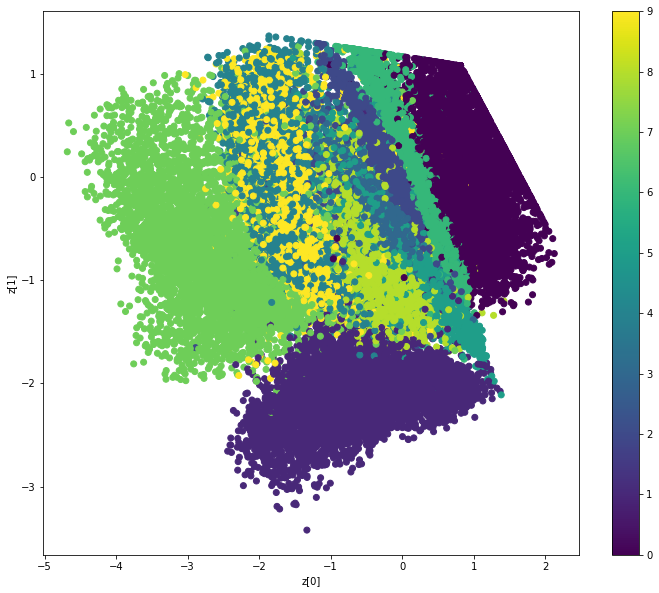
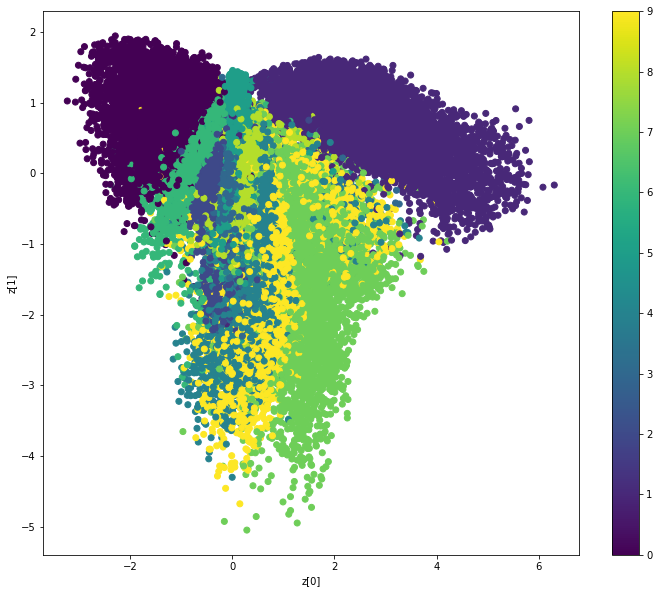
refresh vae example files

diff --git a/examples/generative/md/vae.md b/examples/generative/md/vae.md
@@ -14,6 +14,7 @@
 ## Setup
 
 
+
 ```python
 import numpy as np
 import tensorflow as tf
@@ -24,6 +25,7 @@ from tensorflow.keras import layers
 
 ---
 ## Create a sampling layer
+
 
 
 ```python
@@ -43,6 +45,7 @@ class Sampling(layers.Layer):
 
 ---
 ## Build the encoder
+
 
 
 ```python
@@ -95,6 +98,7 @@ ________________________________________________________________________________
 ## Build the decoder
 
 
+
 ```python
 latent_inputs = keras.Input(shape=(latent_dim,))
 x = layers.Dense(7 * 7 * 64, activation="relu")(latent_inputs)
@@ -136,6 +140,7 @@ _________________________________________________________________
 ## Define the VAE as a `Model` with a custom `train_step`
 
 
+
 ```python
 
 class VAE(keras.Model):
@@ -145,7 +150,8 @@ class VAE(keras.Model):
         self.decoder = decoder
 
     def train_step(self, data):
-        data = data[0]
+        if isinstance(data, tuple):
+            data = data[0]
         with tf.GradientTape() as tape:
             z_mean, z_log_var, z = encoder(data)
             reconstruction = decoder(z)
@@ -172,6 +178,7 @@ class VAE(keras.Model):
 ## Train the VAE
 
 
+
 ```python
 (x_train, _), (x_test, _) = keras.datasets.mnist.load_data()
 mnist_digits = np.concatenate([x_train, x_test], axis=0)
@@ -186,24 +193,73 @@ vae.fit(mnist_digits, epochs=30, batch_size=128)
 <div class="k-default-codeblock">
 ```
 Epoch 1/30
-547/547 [==============================] - 30s 56ms/step - loss: 208.8172 - reconstruction_loss: 206.4144 - kl_loss: 2.4027
+547/547 [==============================] - 3s 5ms/step - loss: 202.1639 - reconstruction_loss: 199.6418 - kl_loss: 2.5221
 Epoch 2/30
-547/547 [==============================] - 35s 65ms/step - loss: 173.0523 - reconstruction_loss: 169.3694 - kl_loss: 3.6828
+547/547 [==============================] - 2s 4ms/step - loss: 161.9867 - reconstruction_loss: 158.9957 - kl_loss: 2.9910
 Epoch 3/30
-547/547 [==============================] - 34s 62ms/step - loss: 163.5822 - reconstruction_loss: 159.9738 - kl_loss: 3.6083
+547/547 [==============================] - 2s 4ms/step - loss: 157.0864 - reconstruction_loss: 153.9148 - kl_loss: 3.1716
 Epoch 4/30
-547/547 [==============================] - 36s 66ms/step - loss: 159.5133 - reconstruction_loss: 155.7664 - kl_loss: 3.7469
+547/547 [==============================] - 2s 5ms/step - loss: 154.6892 - reconstruction_loss: 151.4092 - kl_loss: 3.2800
 Epoch 5/30
-547/547 [==============================] - 40s 73ms/step - loss: 149.8828 - reconstruction_loss: 146.0466 - kl_loss: 3.8362
+547/547 [==============================] - 2s 4ms/step - loss: 153.1740 - reconstruction_loss: 149.8300 - kl_loss: 3.3441
+Epoch 6/30
+547/547 [==============================] - 2s 5ms/step - loss: 152.0346 - reconstruction_loss: 148.6590 - kl_loss: 3.3756
+Epoch 7/30
+547/547 [==============================] - 2s 5ms/step - loss: 151.2110 - reconstruction_loss: 147.7929 - kl_loss: 3.4181
+Epoch 8/30
+547/547 [==============================] - 2s 5ms/step - loss: 150.5230 - reconstruction_loss: 147.0933 - kl_loss: 3.4297
+Epoch 9/30
+547/547 [==============================] - 2s 5ms/step - loss: 149.9584 - reconstruction_loss: 146.5069 - kl_loss: 3.4515
+Epoch 10/30
+547/547 [==============================] - 2s 5ms/step - loss: 149.4152 - reconstruction_loss: 145.9451 - kl_loss: 3.4701
+Epoch 11/30
+547/547 [==============================] - 2s 5ms/step - loss: 149.0085 - reconstruction_loss: 145.5200 - kl_loss: 3.4885
+Epoch 12/30
+547/547 [==============================] - 2s 5ms/step - loss: 148.6831 - reconstruction_loss: 145.1854 - kl_loss: 3.4977
+Epoch 13/30
+547/547 [==============================] - 2s 4ms/step - loss: 148.3130 - reconstruction_loss: 144.7828 - kl_loss: 3.5302
+Epoch 14/30
+547/547 [==============================] - 2s 5ms/step - loss: 148.0216 - reconstruction_loss: 144.4819 - kl_loss: 3.5397
 Epoch 15/30
-547/547 [==============================] - 39s 71ms/step - loss: 146.8578 - reconstruction_loss: 143.0724 - kl_loss: 3.7855
+547/547 [==============================] - 2s 5ms/step - loss: 147.7056 - reconstruction_loss: 144.1588 - kl_loss: 3.5468
+Epoch 16/30
+547/547 [==============================] - 2s 5ms/step - loss: 147.4493 - reconstruction_loss: 143.8943 - kl_loss: 3.5549
+Epoch 17/30
+547/547 [==============================] - 2s 5ms/step - loss: 147.1656 - reconstruction_loss: 143.5847 - kl_loss: 3.5809
+Epoch 18/30
+547/547 [==============================] - 2s 5ms/step - loss: 147.0080 - reconstruction_loss: 143.4251 - kl_loss: 3.5829
+Epoch 19/30
+547/547 [==============================] - 2s 5ms/step - loss: 146.8182 - reconstruction_loss: 143.2218 - kl_loss: 3.5964
+Epoch 20/30
+547/547 [==============================] - 2s 5ms/step - loss: 146.5972 - reconstruction_loss: 142.9844 - kl_loss: 3.6128
+Epoch 21/30
+547/547 [==============================] - 2s 5ms/step - loss: 146.3822 - reconstruction_loss: 142.7513 - kl_loss: 3.6309
+Epoch 22/30
+547/547 [==============================] - 2s 5ms/step - loss: 146.1550 - reconstruction_loss: 142.5334 - kl_loss: 3.6215
+Epoch 23/30
+547/547 [==============================] - 2s 4ms/step - loss: 145.9934 - reconstruction_loss: 142.3690 - kl_loss: 3.6245
+Epoch 24/30
+547/547 [==============================] - 2s 5ms/step - loss: 145.8778 - reconstruction_loss: 142.2351 - kl_loss: 3.6426
+Epoch 25/30
+547/547 [==============================] - 2s 4ms/step - loss: 145.6936 - reconstruction_loss: 142.0350 - kl_loss: 3.6586
+Epoch 26/30
+547/547 [==============================] - 2s 4ms/step - loss: 145.5037 - reconstruction_loss: 141.8405 - kl_loss: 3.6633
+Epoch 27/30
+547/547 [==============================] - 2s 4ms/step - loss: 145.3262 - reconstruction_loss: 141.6582 - kl_loss: 3.6680
 Epoch 28/30
-288/547 [==============>...............] - ETA: 17s - loss: 146.5070 - reconstruction_loss: 142.7138 - kl_loss: 3.7932
+547/547 [==============================] - 2s 4ms/step - loss: 145.2551 - reconstruction_loss: 141.5739 - kl_loss: 3.6812
+Epoch 29/30
+547/547 [==============================] - 2s 5ms/step - loss: 145.1028 - reconstruction_loss: 141.4197 - kl_loss: 3.6831
+Epoch 30/30
+547/547 [==============================] - 2s 4ms/step - loss: 145.0274 - reconstruction_loss: 141.3409 - kl_loss: 3.6864
+
+<tensorflow.python.keras.callbacks.History at 0x7f74c83e79e8>
 
 ```
 </div>
 ---
 ## Display a grid of sampled digits
+
 
 
 ```python
@@ -256,6 +312,7 @@ plot_latent(encoder, decoder)
 
 ---
 ## Display how the latent space clusters different digit classes
+
 
 
 ```python
